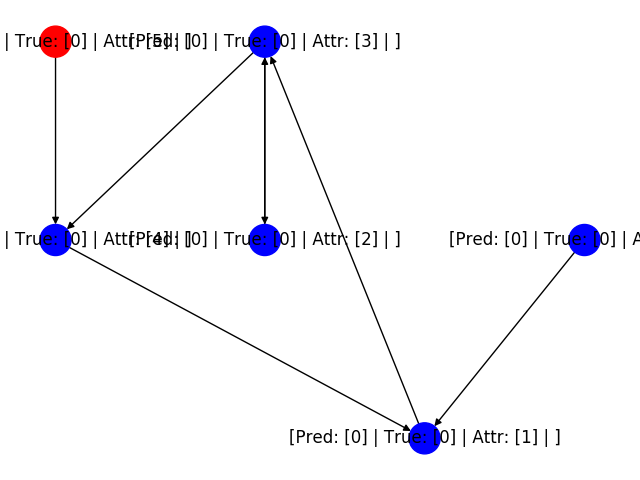
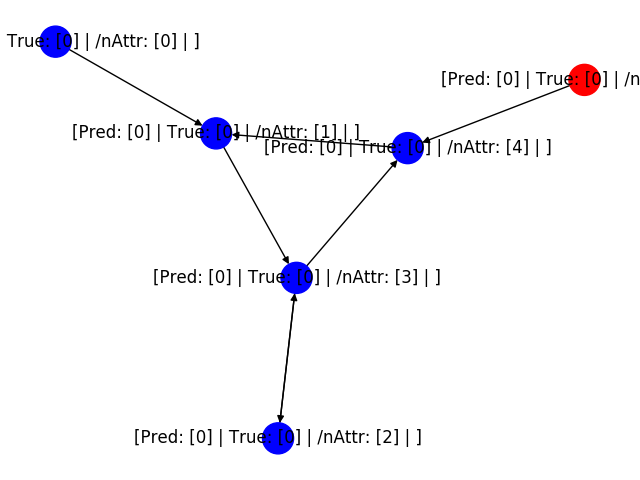
.

diff --git a/programl/task/dataflow/ggnn_test.py b/programl/task/dataflow/ggnn_test.py
@@ -254,7 +254,7 @@ def DrawAndSaveGraph(graph, graph_fname):
     for node, features in original_labels.items():
         curr_label = ""
         curr_label += "Pred: " + str(features["pred_y"]) + " | "
-        curr_label += "True: " + str(features["true_y"]) + " | "
+        curr_label += "True: " + str(features["true_y"]) + " | /n"
         curr_label += "Attr: " + str(features["attribution_order"]) + " | "
         if features["data_flow_root_node"] == 0:
             curr_label += "Target"
@@ -267,7 +267,7 @@ def DrawAndSaveGraph(graph, graph_fname):
         else:
             color.append('red')
 
-    pos = graphviz_layout(networkx_graph, prog='dot')
+    pos = graphviz_layout(networkx_graph, prog='neato')
     nx.draw(networkx_graph, pos=pos, labels=labels, node_size=500, node_color=color)
     
     if FLAGS.save_vis:
